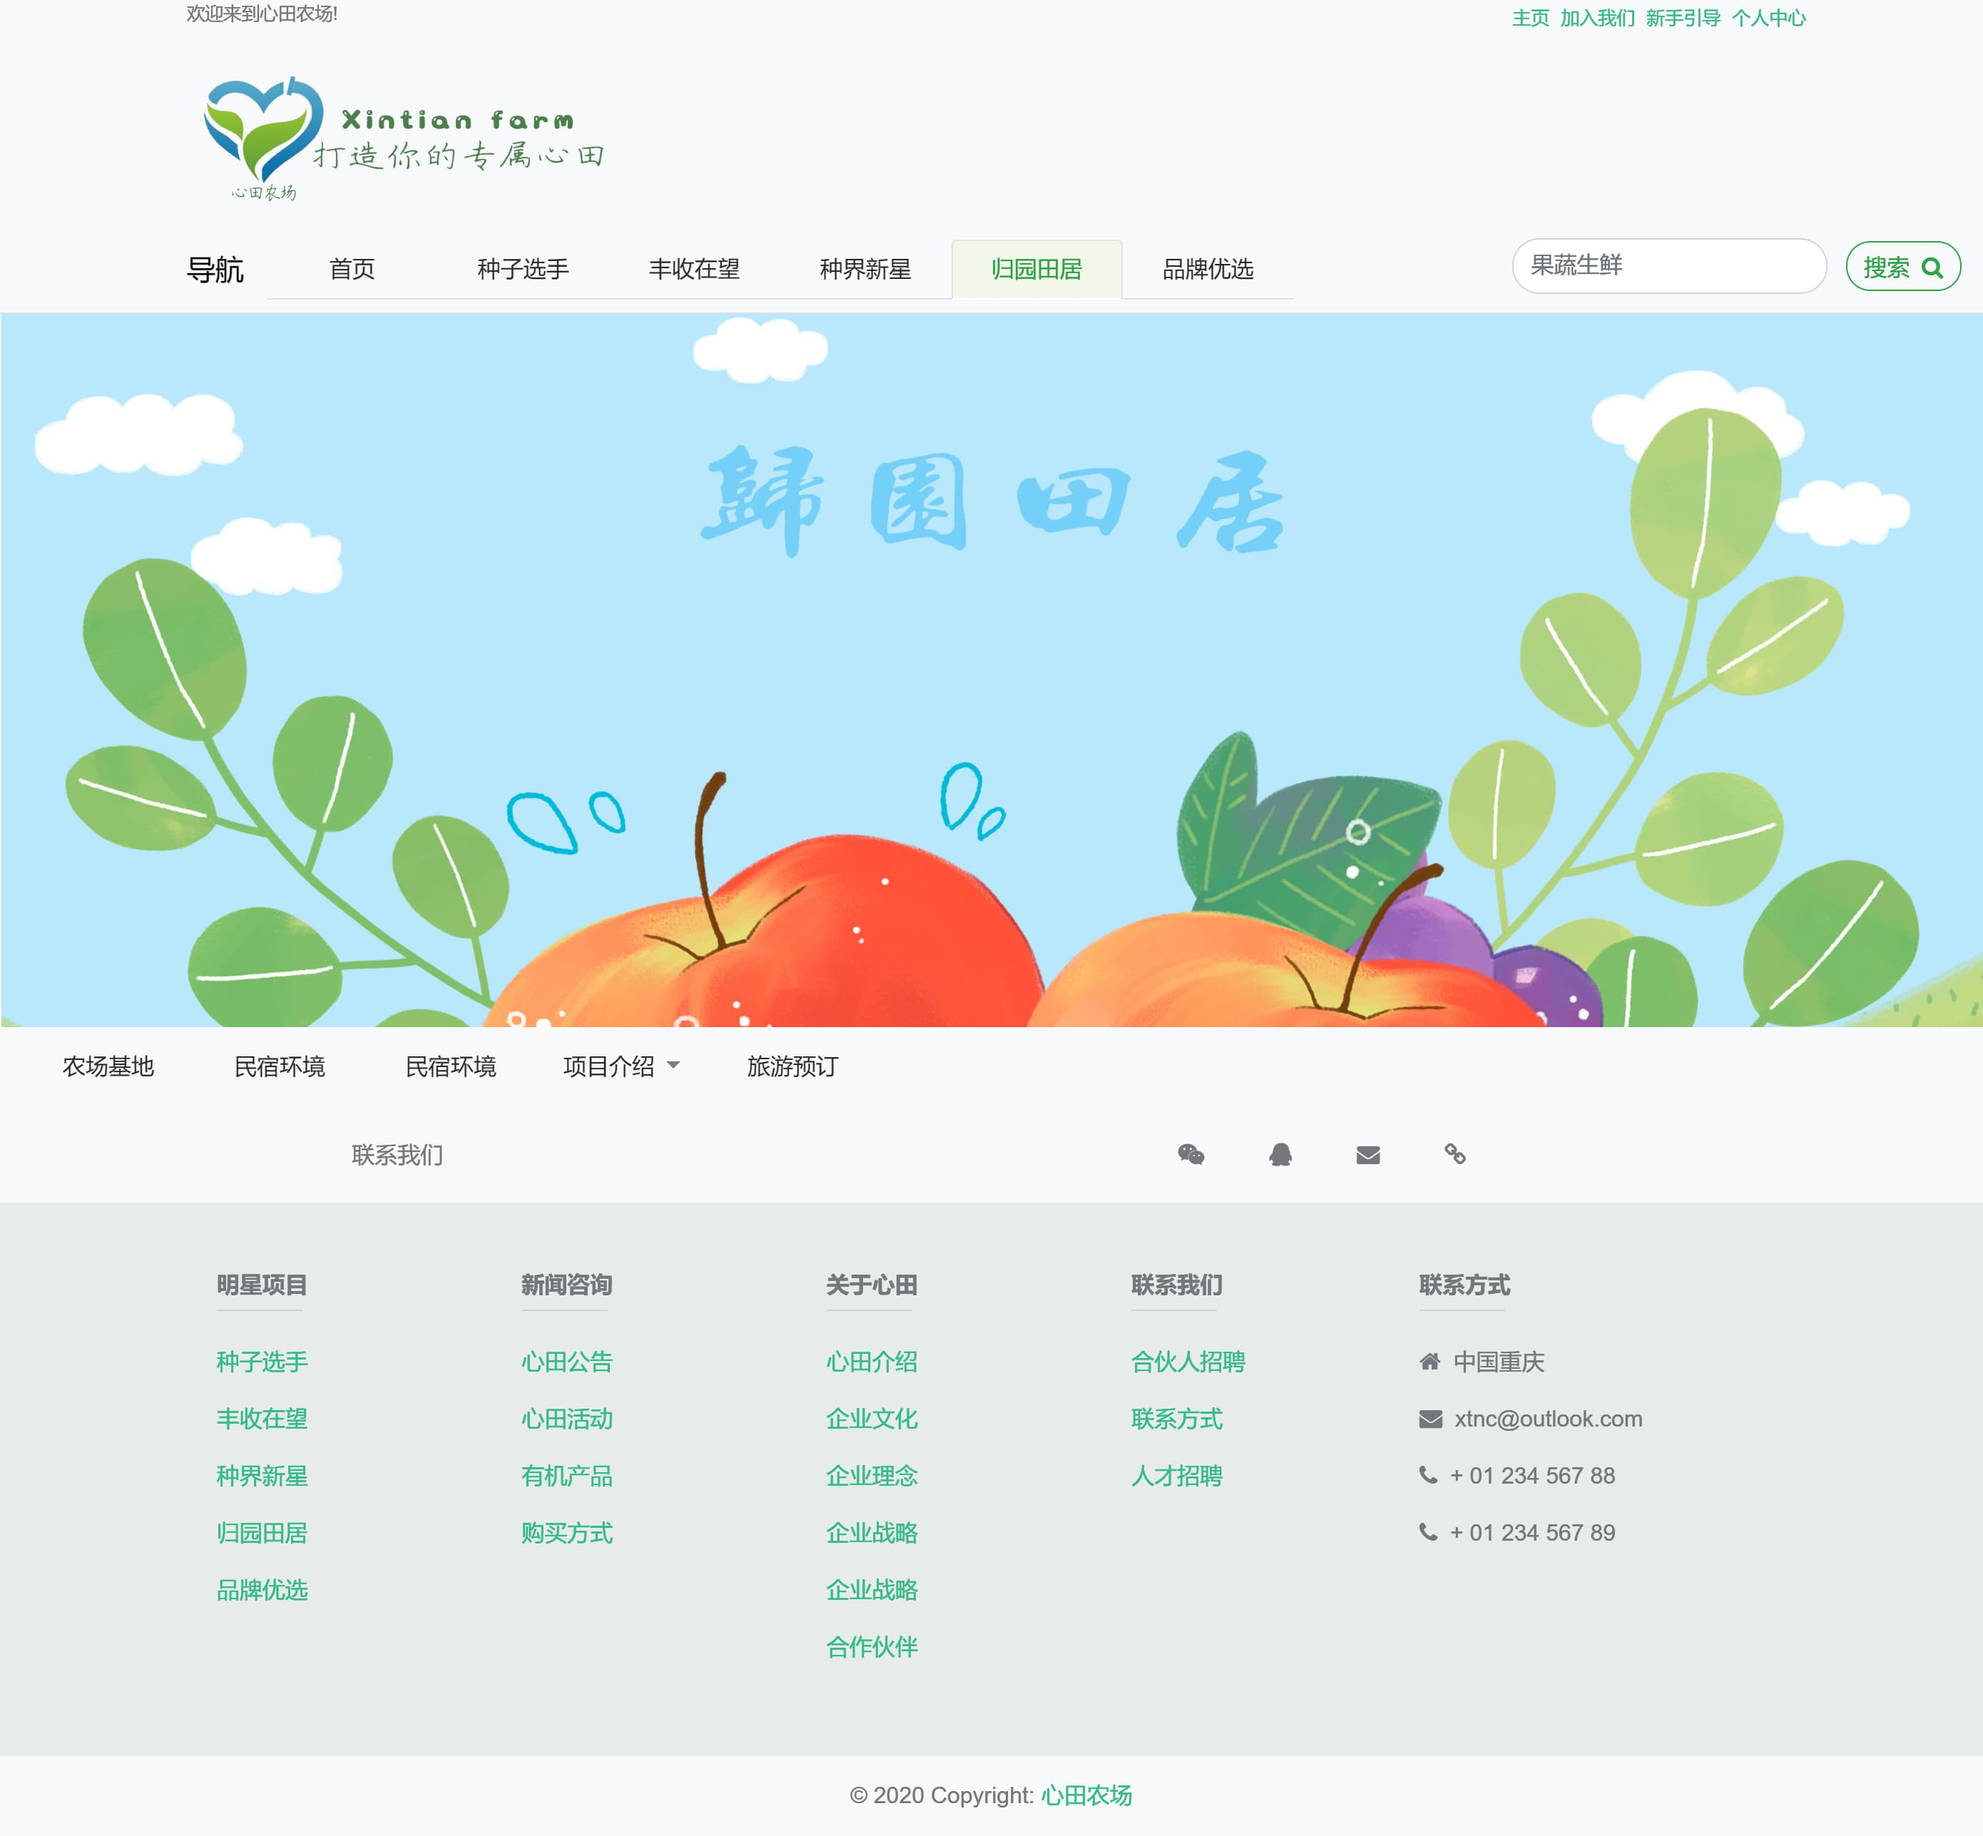
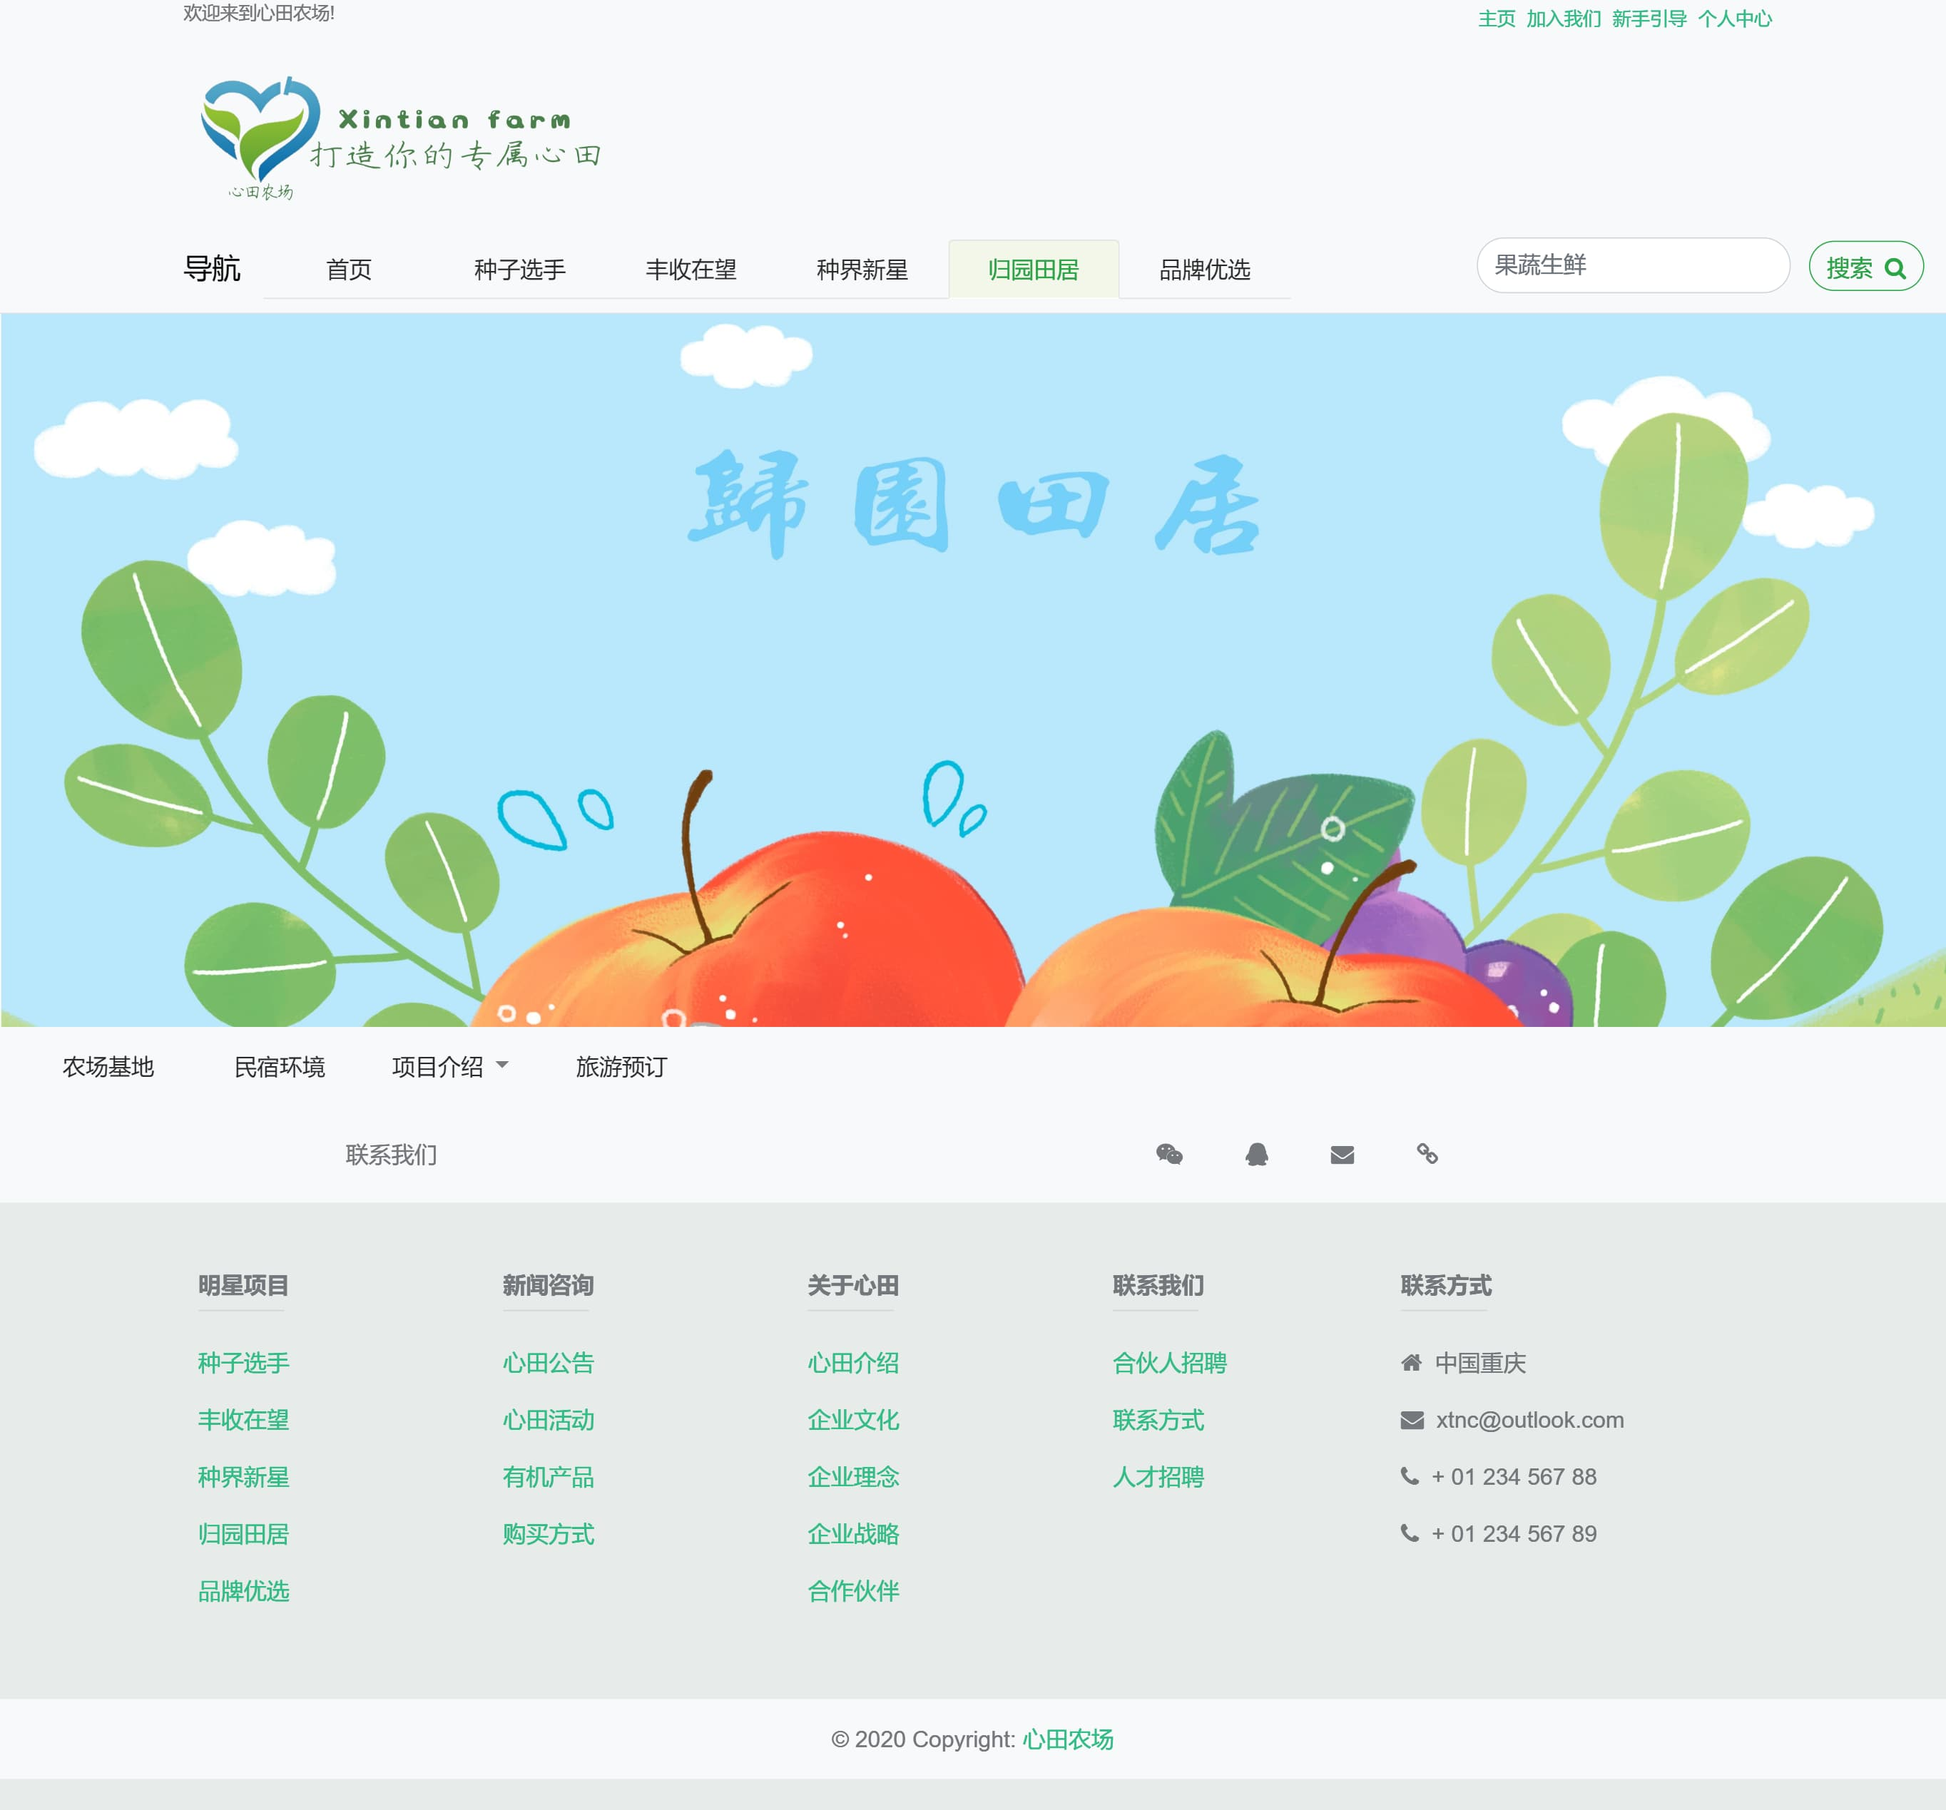
细节问题修改

diff --git a/index.html b/index.html
@@ -595,7 +595,7 @@
                     <div class="btn btn-success">助力项目</div>
                     <div class="btn btn-success">排名大厅</div>
                     <div class="btn btn-success">查看我的项目</div>
-                    <div class="btn btn-success">邀请好友友助力</div>
+                    <div class="btn btn-success">邀请好友助力</div>
                 </div>
             </div>
         </div>
@@ -617,9 +617,6 @@
                 <ul class="navbar-nav mr-auto">
                     <li class="nav-item">
                         <a class="nav-link" href="#">农场基地 <span class="sr-only">(current)</span></a>
-                    </li>
-                    <li class="nav-item">
-                        <a class="nav-link" href="#">民宿环境</a>
                     </li>
                     <li class="nav-item">
                         <a class="nav-link" href="#">民宿环境</a>
@@ -1045,9 +1042,6 @@
                 </p>
                 <p>
                     <a href="#">企业理念</a>
-                </p>
-                <p>
-                    <a href="#">企业战略</a>
                 </p>
                 <p>
                     <a href="#">企业战略</a>

diff --git a/guider.html b/guider.html
@@ -340,9 +340,6 @@
                     <a href="#">企业战略</a>
                 </p>
                 <p>
-                    <a href="#">企业战略</a>
-                </p>
-                <p>
                     <a href="#">合作伙伴</a>
                 </p>
             </div>

diff --git a/join.html b/join.html
@@ -225,9 +225,6 @@
                     <a href="#">企业战略</a>
                 </p>
                 <p>
-                    <a href="#">企业战略</a>
-                </p>
-                <p>
                     <a href="#">合作伙伴</a>
                 </p>
             </div>
